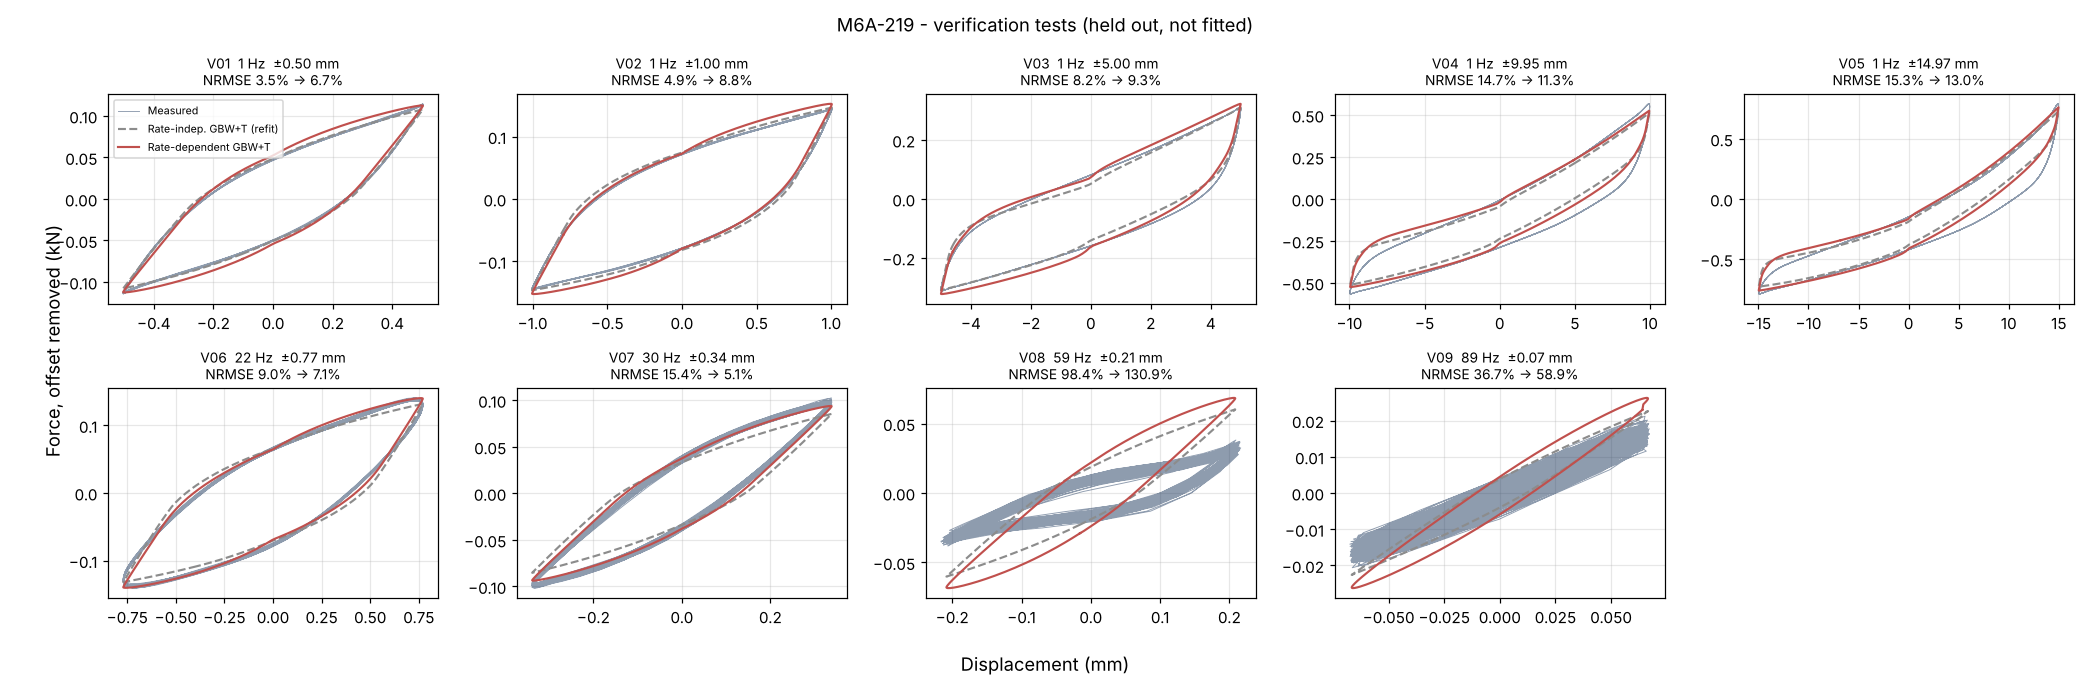
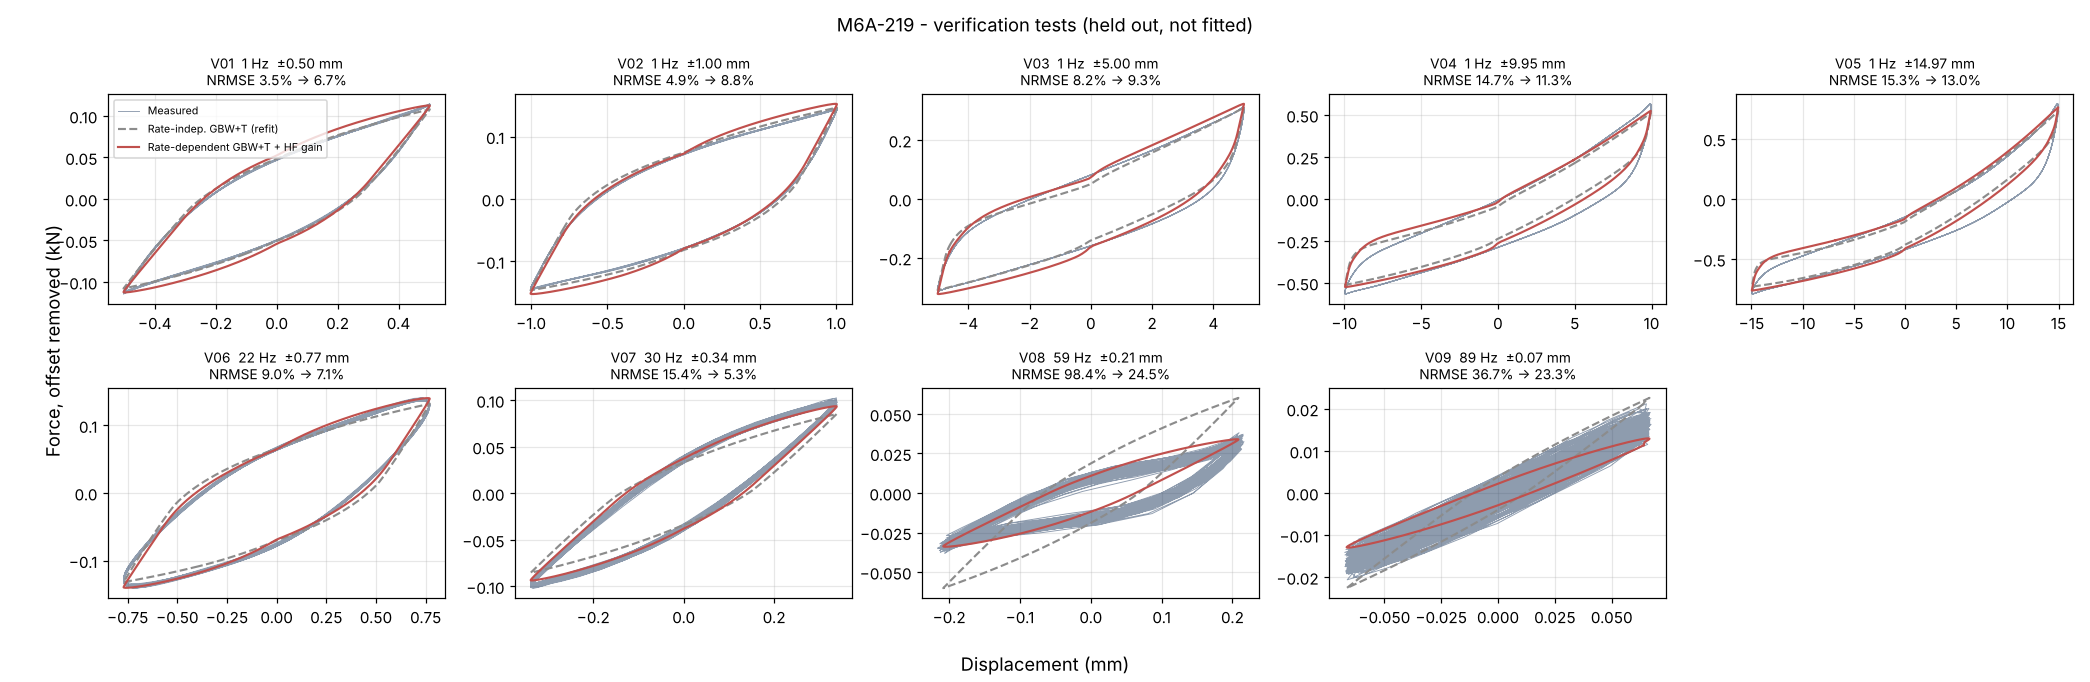
Add high-frequency gain to M6A-219 model, calibrated leave-one-out on 59/89 Hz tests
Claude-Session: https://claude.ai/code/session_01PYzf7x83qbuuNVyipTm6Up

diff --git a/bouc_wen_m6a/gbw_rate.py b/bouc_wen_m6a/gbw_rate.py
@@ -23,7 +23,7 @@ import sys
 import numpy as np
 import pandas as pd
 from numba import njit
-from scipy.optimize import least_squares
+from scipy.optimize import least_squares, minimize_scalar
 
 NPTS, NHARM, NCYC = 256, 30, 4
 NAMES = ['ka', 'k2', 'k3', 'kt', 'xt', 'pt', 'kh', 'zu', 'n', 'w', 'r2', 'kr', 'zru', 'tau', 'c', 'm']
@@ -31,6 +31,7 @@ LO = [0, -0.05, -0.01, 0, -5, 1.2, 0, 0.02, 0.3, 0, -0.9, 0, 0.02, 0.01, 0, -5]
 HI = [0.5, 0.05, 0.01, 0.05, 12, 4, 1, 5, 4, 1, 0.9, 1, 5, 100, 0.01, 5]
 P0 = [0.05, -0.003, 1e-4, 0.0024, 0.06, 2, 0.3, 0.42, 0.8, 0.5, 0, 0.1, 0.5, 1, 0, 0.5]
 RATE_ONLY = ['kr', 'zru', 'tau', 'c', 'm']
+F_C, P_HF = 42.0, 16  # high-frequency gain switches on between 30 Hz (no drop) and 59 Hz (drop)
 
 
 def load_cycle(csv, f_approx):
@@ -106,13 +107,22 @@ def simulate(x, v, a, dt, p, ncyc):
     return out
 
 
-def predict(cyc, p):
+def hf_gain(f, g_hf):
+    """Dynamic gain vs drive frequency: 1 up to ~30 Hz, g_hf above ~59 Hz (scales K' and K'' together)."""
+    return 1.0 - (1.0 - g_hf) / (1.0 + (F_C / f) ** P_HF)
+
+
+def predict(cyc, p, g_hf=1.0):
     Fm = simulate(cyc['x'], cyc['v'], cyc['a'], 1.0 / (cyc['f'] * NPTS), np.asarray(p, float), NCYC)
-    return Fm - (Fm.max() + Fm.min()) / 2
+    return (Fm - (Fm.max() + Fm.min()) / 2) * hf_gain(cyc['f'], g_hf)
 
 
-def nrmse(cyc, p):
-    return np.sqrt(np.mean((predict(cyc, p) - cyc['F']) ** 2)) / np.sqrt(np.mean(cyc['F'] ** 2))
+def nrmse(cyc, p, g_hf=1.0):
+    return np.sqrt(np.mean((predict(cyc, p, g_hf) - cyc['F']) ** 2)) / np.sqrt(np.mean(cyc['F'] ** 2))
+
+
+def fit_hf_gain(cycles, p):
+    return minimize_scalar(lambda g: sum(nrmse(c, p, g) ** 2 for c in cycles), bounds=(0.05, 1.5), method='bounded').x
 
 
 def fit(cycles, free, p0, starts=4, seed=0):
@@ -150,32 +160,46 @@ def main(tr_dir, ve_dir, out):
         sets[name] = [(r.test, r.f_test_Hz, load_cycle(f'{d}/{r.test}_centred.csv', r.f_approx_Hz)) for _, r in s.iterrows()]
     train = [c for _, _, c in sets['training']]
 
-    base0 = list(P0)
-    for k in RATE_ONLY:
-        base0[NAMES.index(k)] = 0.0
-    print('fitting base (rate-independent) model')
-    p_base = fit(train, [k for k in NAMES if k not in RATE_ONLY], base0)
-    print('fitting rate model')
-    seed_rate = list(p_base)
-    for k in RATE_ONLY:
-        seed_rate[NAMES.index(k)] = P0[NAMES.index(k)]
-    p_rate = fit(train, NAMES, seed_rate)
-    json.dump({'base': dict(zip(NAMES, p_base)), 'rate': dict(zip(NAMES, p_rate))}, open(f'{out}/params.json', 'w'), indent=2)
+    if os.path.exists(f'{out}/params.json'):  # reuse a previous training fit
+        P = json.load(open(f'{out}/params.json'))
+        p_base, p_rate = [P['base'][k] for k in NAMES], [P['rate'][k] for k in NAMES]
+    else:
+        base0 = list(P0)
+        for k in RATE_ONLY:
+            base0[NAMES.index(k)] = 0.0
+        print('fitting base (rate-independent) model')
+        p_base = fit(train, [k for k in NAMES if k not in RATE_ONLY], base0)
+        print('fitting rate model')
+        seed_rate = list(p_base)
+        for k in RATE_ONLY:
+            seed_rate[NAMES.index(k)] = P0[NAMES.index(k)]
+        p_rate = fit(train, NAMES, seed_rate)
+
+    # The training set stops at 30 Hz, so g_hf can only come from the high-frequency tests.
+    # Leave-one-out: calibrate on one of V08/V09, score on the other; then calibrate on both.
+    hf = {t: c for t, f, c in sets['verification'] if f > F_C}
+    g_loo = {t: fit_hf_gain([c for u, c in hf.items() if u != t], p_rate) for t in hf}
+    g_hf = fit_hf_gain(list(hf.values()), p_rate)
+    print('g_hf leave-one-out:', {t: round(g, 3) for t, g in g_loo.items()}, ' g_hf (both):', round(g_hf, 3))
+    json.dump({'base': dict(zip(NAMES, p_base)), 'rate': dict(zip(NAMES, p_rate)),
+               'hf_gain': dict(g_hf=g_hf, f_c=F_C, p=P_HF, g_hf_leave_one_out=g_loo)}, open(f'{out}/params.json', 'w'), indent=2)
 
     rows = []
     for name, tests in sets.items():
         for test, fnom, c in tests:
             rows.append(dict(set=name, test=test, f_Hz=fnom, X_mm=np.ptp(c['x']) / 2,
-                             nrmse_base=nrmse(c, p_base), nrmse_rate=nrmse(c, p_rate)))
+                             nrmse_base=nrmse(c, p_base), nrmse_rate=nrmse(c, p_rate),
+                             nrmse_rate_hf_loo=nrmse(c, p_rate, g_loo[test]) if test in hf else np.nan,
+                             nrmse_rate_hf=nrmse(c, p_rate, g_hf)))
     T = pd.DataFrame(rows)
     T.to_csv(f'{out}/errors.csv', index=False, float_format='%.4f')
     print('fundamental complex stiffness K\' + iK\'\' (kN/mm), verification:')
     for test, fnom, c in sets['verification']:
         e = np.exp(-2j * np.pi * np.arange(NPTS) / NPTS)
         k = lambda F: np.dot(F, e) / np.dot(c['x'], e)
-        print(f'  {test} {fnom:5g} Hz  meas {k(c["F"]):.3f}  base {k(predict(c, p_base)):.3f}  rate {k(predict(c, p_rate)):.3f}')
+        print(f'  {test} {fnom:5g} Hz  meas {k(c["F"]):.3f}  base {k(predict(c, p_base)):.3f}  rate+hf {k(predict(c, p_rate, g_hf)):.3f}')
     print(T.round(3).to_string(index=False))
-    print(T.groupby('set')[['nrmse_base', 'nrmse_rate']].mean().round(3))
+    print(T.groupby('set')[['nrmse_base', 'nrmse_rate', 'nrmse_rate_hf']].mean().round(3))
 
     for name, tests in sets.items():
         ncol = 5
@@ -184,10 +208,11 @@ def main(tr_dir, ve_dir, out):
         for ax, (test, fnom, c) in zip(axs.flat, tests):
             ax.plot(c['x_raw'], c['F_raw'], color='#1f3a5f', lw=0.6, alpha=0.5, label='Measured')
             xx = np.r_[c['x'], c['x'][:1]]
-            for p, col, ls, lab in ((p_base, '0.55', '--', 'Rate-indep. GBW+T (refit)'), (p_rate, '#c0504d', '-', 'Rate-dependent GBW+T')):
-                ff = predict(c, p)
+            for p, g, col, ls, lab in ((p_base, 1.0, '0.55', '--', 'Rate-indep. GBW+T (refit)'),
+                                       (p_rate, g_hf, '#c0504d', '-', 'Rate-dependent GBW+T + HF gain')):
+                ff = predict(c, p, g)
                 ax.plot(xx, np.r_[ff, ff[:1]], color=col, ls=ls, lw=1.4, label=lab)
-            e0, e1 = nrmse(c, p_base), nrmse(c, p_rate)
+            e0, e1 = nrmse(c, p_base), nrmse(c, p_rate, g_hf)
             ax.set_title(f'{test[4:]}  {fnom:g} Hz  ±{np.ptp(c["x"]) / 2:.2f} mm\nNRMSE {e0:.1%} → {e1:.1%}', fontsize=9)
             ax.grid(alpha=0.3)
         for ax in axs.flat[len(tests):]:

diff --git a/bouc_wen_m6a/README.md b/bouc_wen_m6a/README.md
@@ -13,18 +13,30 @@ Each test is phase-averaged into one smooth cycle. Harmonics are capped below Ny
 
 ## Results (NRMSE)
 
-| | base | rate |
-|---|---|---|
-| Training mean (25 tests) | 14.8 % | **8.8 %** |
-| Quasi-static S01–S03 | 30–37 % | **8–14 %** |
-| V06 22 Hz | 9.0 % | **7.1 %** |
-| V07 30 Hz | 15.4 % | **5.1 %** |
-| V04 / V05 (1 Hz, ±10/±15 mm) | 14.7 / 15.3 % | **11.3 / 13.0 %** |
-| V01 / V02 (1 Hz, ±0.5/±1 mm) | **3.5 / 4.9 %** | 6.7 / 8.8 % |
-| V08 59 Hz | 98 % | 131 % |
-| V09 89 Hz | 37 % | 59 % |
+| | base | rate | rate + HF gain |
+|---|---|---|---|
+| Training mean (25 tests) | 14.8 % | **8.8 %** | **8.8 %** |
+| Quasi-static S01–S03 | 30–37 % | **8–14 %** | **8–14 %** |
+| V06 22 Hz | 9.0 % | **7.1 %** | **7.1 %** |
+| V07 30 Hz | 15.4 % | **5.1 %** | **5.3 %** |
+| V04 / V05 (1 Hz, ±10/±15 mm) | 14.7 / 15.3 % | **11.3 / 13.0 %** | **11.3 / 13.0 %** |
+| V01 / V02 (1 Hz, ±0.5/±1 mm) | **3.5 / 4.9 %** | 6.7 / 8.8 % | 6.7 / 8.8 % |
+| V08 59 Hz | 98 % | 131 % | **50 %** leave-one-out, 25 % calibrated |
+| V09 89 Hz | 37 % | 59 % | **33 %** leave-one-out, 23 % calibrated |
+| Verification mean | 22.9 % | 27.9 % | **12.1 %** |
 
 Per-test values are in `errors.csv`, parameters in `params.json`, and loops in `*_loops.png`.
+
+### High-frequency gain
+
+`F = hf_gain(f) * F_model`, where `hf_gain(f) = 1 - (1 - g_hf) / (1 + (42/f)^16)` and f is the drive frequency. The gain is 1 at 30 Hz and below, so the training fit is untouched, and `g_hf` at 59 Hz and above. It scales K′ and K″ together, which is what the 59/89 Hz data show.
+
+**Calibration caveat:** `g_hf` cannot be identified from the training set, which stops at 30 Hz. It is calibrated on V08/V09:
+
+* **Leave-one-out:** calibrating on V08 gives g_hf = 0.63, and V09 then scores 33 %. Calibrating on V09 gives 0.43, and V08 then scores 50 %. Both beat the base and rate models, so the correction generalises between the two high-frequency tests.
+* **Final value:** g_hf = 0.495, calibrated on both. V08 and V09 are therefore no longer independent checks.
+* **Where it switches on:** the corner (42 Hz, set between 30 and 59 Hz) and the steepness are assumed, not fitted.
+* **Scope:** `hf_gain` depends on drive frequency, so it is defined for harmonic tests, not for arbitrary input signals.
 
 ## What the data say
 
